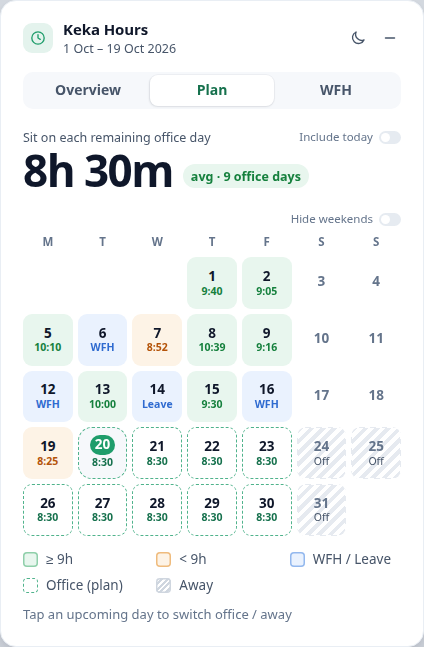
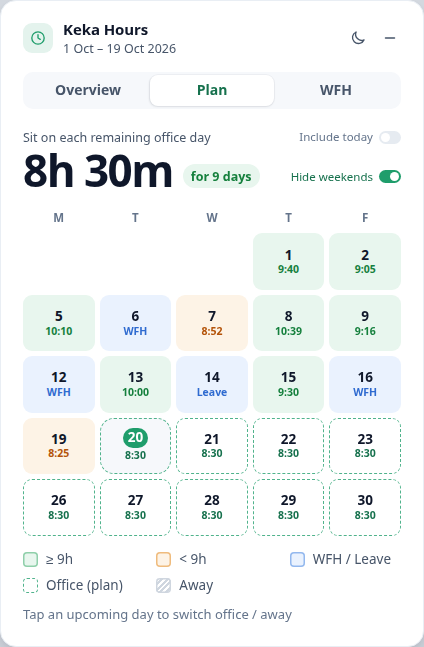
Plan: Hide weekends on the hours line, on by default
The switch sits at the right end of the Plan's number row, in line with the
chip (it wraps under it only if a long chip needs the room). To fit, the
chip reads "for 17 days" instead of "avg · 17 office days". Hide weekends is
now on unless turned off.

diff --git a/src/content/ui.js b/src/content/ui.js
@@ -436,7 +436,7 @@ svg { width: 100%; height: 100%; display: block; }
 .s-plan-office .cal-v { color: var(--brand-text); font-weight: 700; }
 .s-plan-away { color: var(--subtle); background: repeating-linear-gradient(135deg, var(--away-a) 0 4px, var(--away-b) 4px 8px); border: 1.5px solid transparent; }
 /* A month spanning six weeks starts from shorter rows, so the card stays its usual height. */
-.cal.six { --cell-h: 42px; }
+.cal.six { --cell-h: 44px; }
 button.cal-cell:hover { transform: translateY(-1px); border-color: var(--brand); border-style: solid; }
 /* Today: the date in a filled circle (the cell keeps its own colour). */
 .cal-cell.today .cal-d { display: grid; place-items: center; min-width: 20px; height: 20px; padding: 0 5px; border-radius: 999px; background: var(--brand); color: #fff; font-weight: 700; }
@@ -449,8 +449,8 @@ button.cal-cell:hover { transform: translateY(-1px); border-color: var(--brand);
 .legend .lx { background: var(--off-soft); box-shadow: inset 0 0 0 1.5px var(--legend-off); }
 .legend .lp { border: 1.5px dashed var(--plan-line); }
 .legend .la { background: repeating-linear-gradient(135deg, var(--legend-away-a) 0 2px, var(--legend-away-b) 2px 4px); box-shadow: inset 0 0 0 1.5px var(--legend-away-a); }
-/* Hide weekends: a slim row right above the calendar, right-aligned. */
-.cal-tools { display: flex; justify-content: flex-end; margin: -2px 0 4px; }
+/* Hide weekends: at the right end of the Plan's number row (wraps under it if a long chip needs the room). */
+.hero-row .plan-wk { margin-left: auto; align-self: baseline; transform: translateY(-6px); }
 .cal.five { grid-template-columns: repeat(5, minmax(0, 1fr)); }
 .legend .hint { grid-column: 1 / -1; margin-top: 2px; font-size: 13px; color: var(--subtle); }
 
@@ -771,8 +771,11 @@ button.cal-cell:hover { transform: translateY(-1px); border-color: var(--brand);
     return `<div class="plan-stats">${cell(left)}${cell(right)}</div>`;
   }
 
-  /** The plan's headline. `sw`: the Include today switch, beside the heading ('' when today isn't in this month). */
-  function planHeroHtml(p, sw) {
+  /**
+   * The plan's headline. `sw`: the Include today switch, beside the heading ('' when
+   * today isn't in this month); `wk`: Hide weekends, at the end of the number row.
+   */
+  function planHeroHtml(p, sw, wk = '') {
     const top = text => (sw ? `<div class="hero-top"><div class="eyebrow">${text}</div>${sw}</div>` : `<div class="eyebrow">${text}</div>`);
     const month = fmt.monthName(p.monthKey);
     const target = fmt.duration(p.targetMinutes).replace(' 00m', '');
@@ -789,7 +792,7 @@ button.cal-cell:hover { transform: translateY(-1px); border-color: var(--brand);
         <div class="hero">
           <div class="eyebrow">${esc(month)} finished at</div>
           <div class="hero-row"><span class="hero-value">${fmt.duration(p.currentAverage)}</span>
-            ${p.currentAverage == null ? '' : `<span class="chip ${ok ? 'good' : 'warn'}">${ok ? `≥ ${target}` : `${fmt.delta(p.currentAverage - p.targetMinutes)} vs ${target}`}</span>`}</div>
+            ${p.currentAverage == null ? '' : `<span class="chip ${ok ? 'good' : 'warn'}">${ok ? `≥ ${target}` : `${fmt.delta(p.currentAverage - p.targetMinutes)} vs ${target}`}</span>`}${wk}</div>
         </div>
         ${statsCard(
           { label: 'Office days', value: p.countedDays, sub: '' },
@@ -799,7 +802,7 @@ button.cal-cell:hover { transform: translateY(-1px); border-color: var(--brand);
       return `
         <div class="hero">
           ${top(`No office days left in ${esc(month)}`)}
-          <div class="hero-row"><span class="hero-value">${fmt.duration(p.currentAverage)}</span></div>
+          <div class="hero-row"><span class="hero-value">${fmt.duration(p.currentAverage)}</span>${wk}</div>
         </div>
         ${statsCard(soFar, { label: 'Days left', value: '0', sub: 'tap a day to add' })}`;
     }
@@ -807,7 +810,7 @@ button.cal-cell:hover { transform: translateY(-1px); border-color: var(--brand);
       return `
         <div class="hero">
           ${top(`To end ${esc(month)} at ${target}+ average`)}
-          <div class="hero-row"><span class="hero-value word">You're set</span></div>
+          <div class="hero-row"><span class="hero-value word">You're set</span>${wk}</div>
         </div>
         ${statsCard(soFar, { label: 'Days left', value: p.remainingDays, tone: 'good', sub: `any time keeps ${target}+` })}`;
     }
@@ -817,7 +820,7 @@ button.cal-cell:hover { transform: translateY(-1px); border-color: var(--brand);
       <div class="hero">
         ${top('Sit on each remaining office day')}
         <div class="hero-row"><span class="hero-value">${fmt.duration(p.requiredPerDay)}</span>
-          <span class="chip ${hard ? 'warn' : t}">${hard ? 'Tough — check your away days' : `avg · ${plural(p.remainingDays, 'office day')}`}</span></div>
+          <span class="chip ${hard ? 'warn' : t}">${hard ? 'Tough — check your away days' : `for ${plural(p.remainingDays, 'day')}`}</span>${wk}</div>
       </div>`;
   }
 
@@ -906,7 +909,7 @@ button.cal-cell:hover { transform: translateY(-1px); border-color: var(--brand);
 
   /** Plan's "Hide weekends": Monday to Friday only (a view choice; weekend hours still count). */
   function hideWeekendsSwitchHtml(on) {
-    return `<div class="cal-tools"><button class="switch mini" type="button" role="switch" data-act="hide-weekends" aria-checked="${on}" title="Show Monday to Friday only. Weekend hours still count."><span>Hide weekends</span><span class="track"><span class="thumb"></span></span></button></div>`;
+    return `<button class="switch mini plan-wk" type="button" role="switch" data-act="hide-weekends" aria-checked="${on}" title="Show Monday to Friday only. Weekend hours still count."><span>Hide weekends</span><span class="track"><span class="thumb"></span></span></button>`;
   }
 
   function planHtml(p, includeToday, hideWeekends = false) {
@@ -922,8 +925,7 @@ button.cal-cell:hover { transform: translateY(-1px); border-color: var(--brand);
     const rows = Math.ceil((lead + cells.length) / cols);
     const blanks = Array.from({ length: lead }, () => '<div></div>').join('');
     return `
-      ${planHeroHtml(p, p.cells.some(c => c.isToday) ? includeSwitchHtml(!!includeToday, 'plan') : '')}
-      ${hideWeekendsSwitchHtml(!!hideWeekends)}
+      ${planHeroHtml(p, p.cells.some(c => c.isToday) ? includeSwitchHtml(!!includeToday, 'plan') : '', hideWeekendsSwitchHtml(!!hideWeekends))}
       <div class="cal${rows > 5 ? ' six' : ''}${hideWeekends ? ' five' : ''}" role="grid" aria-label="${esc(fmt.monthName(p.monthKey))} plan">
         ${WEEK_HEAD.slice(0, cols).map(h => `<div class="cal-h">${h}</div>`).join('')}
         ${blanks}${cells.map(c => cellHtml(c, p)).join('')}
@@ -1288,7 +1290,7 @@ button.cal-cell:hover { transform: translateY(-1px); border-color: var(--brand);
     let closing = null; // running close animation, if any
     let tab = 'overview';
     let wfhState = { settings: null, day: null };
-    let hideWeekends = false; // Plan: Monday to Friday only
+    let hideWeekends = true; // Plan: Monday to Friday only (on unless turned off)
     // WFH tab form, kept across re-renders: the test notification's result.
     const wfhForm = { testMsg: null };
     let wfhPending = false; // a re-render waiting for a press to become its click

diff --git a/src/content/settings.js b/src/content/settings.js
@@ -114,15 +114,15 @@
     } catch (_) { /* storage unavailable */ }
   }
 
-  /** Plan's "Hide weekends" (Monday to Friday only); off unless turned on. */
+  /** Plan's "Hide weekends" (Monday to Friday only); on unless turned off. */
   async function loadHideWeekends() {
     const s = storage();
-    if (!s) return false;
+    if (!s) return true;
     try {
-      const got = await s.get({ [HIDE_WEEKENDS_KEY]: false });
-      return got[HIDE_WEEKENDS_KEY] === true;
+      const got = await s.get({ [HIDE_WEEKENDS_KEY]: true });
+      return got[HIDE_WEEKENDS_KEY] !== false;
     } catch (_) {
-      return false;
+      return true;
     }
   }
 
@@ -136,7 +136,7 @@
   function onHideWeekendsChange(callback) {
     try {
       chrome.storage.onChanged.addListener((changes, area) => {
-        if (area === 'local' && changes[HIDE_WEEKENDS_KEY]) callback(changes[HIDE_WEEKENDS_KEY].newValue === true);
+        if (area === 'local' && changes[HIDE_WEEKENDS_KEY]) callback(changes[HIDE_WEEKENDS_KEY].newValue !== false);
       });
     } catch (_) { /* storage unavailable */ }
   }

diff --git a/README.md b/README.md
@@ -65,8 +65,8 @@ can't be read, the card follows your OS setting.
   (WFH / leave / off). Your choices are saved locally per month. Today stays a remaining office
   day until you turn on **Include today** (the same switch as Overview's) after clocking out, so
   stepping out for lunch doesn't count as a short finished day. Today's clock-out time is on the
-  Overview. **Hide weekends** (above the calendar, remembered) shows Monday to Friday only; weekend hours
-  still count.
+  Overview. **Hide weekends** (next to the hours; on by default, remembered) shows Monday to Friday only;
+  weekend hours still count.
 - **WFH**: **Today** shows whether you're clocked in (after a break: your latest clock-in, and when
   the day started) and when the reminder and auto clock-out come, with snooze / stop / skip buttons
   when they apply. **Every WFH day** has a row for each,
